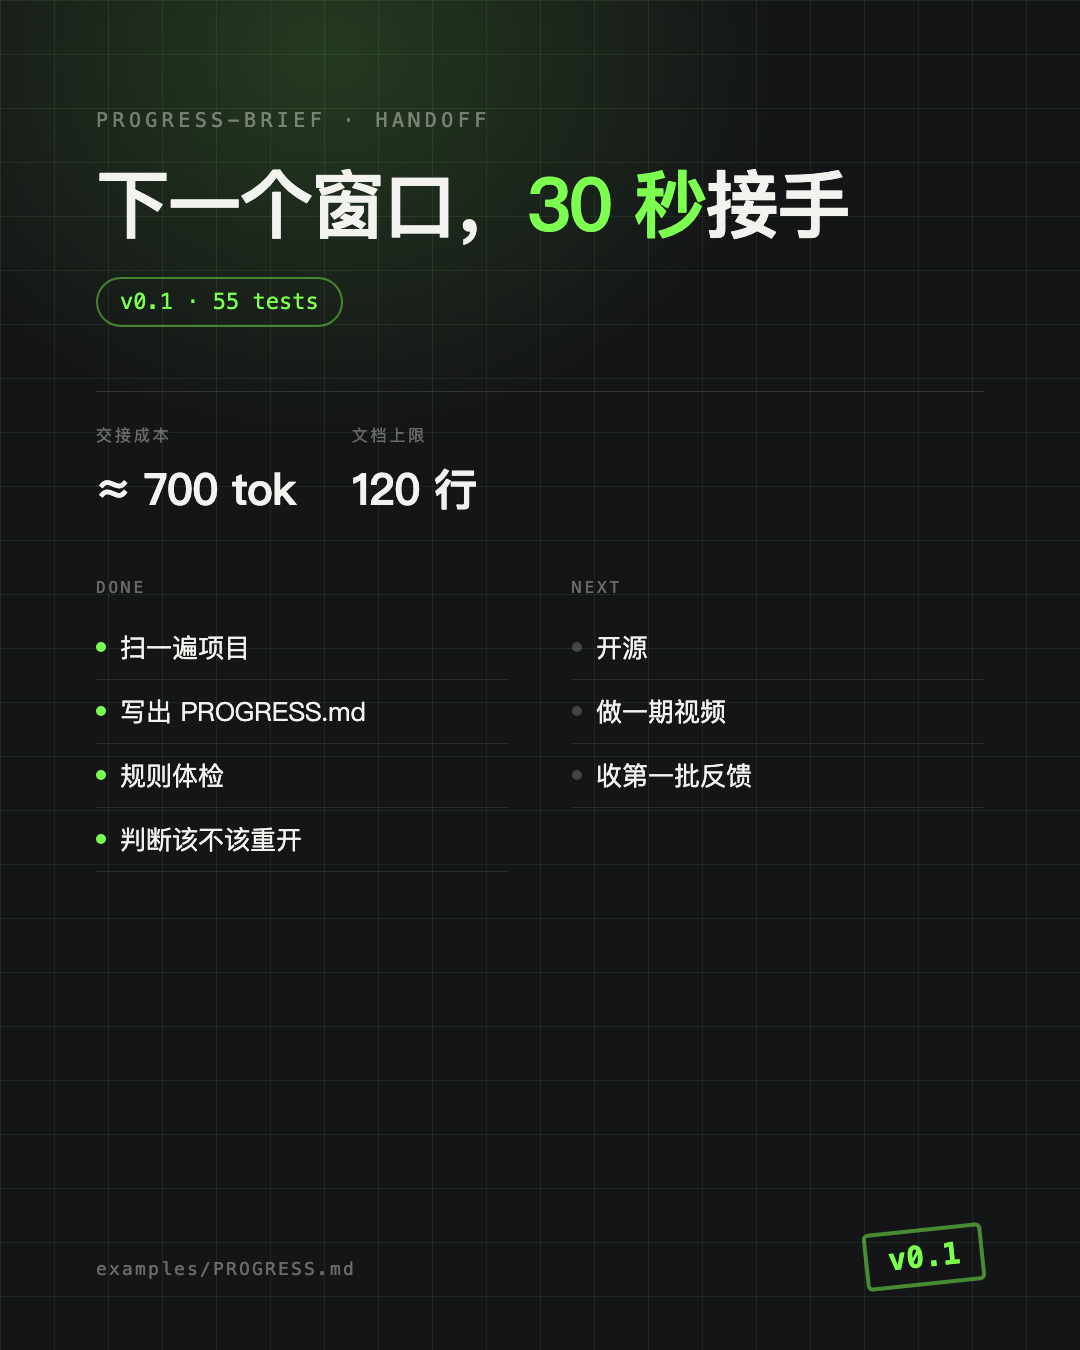
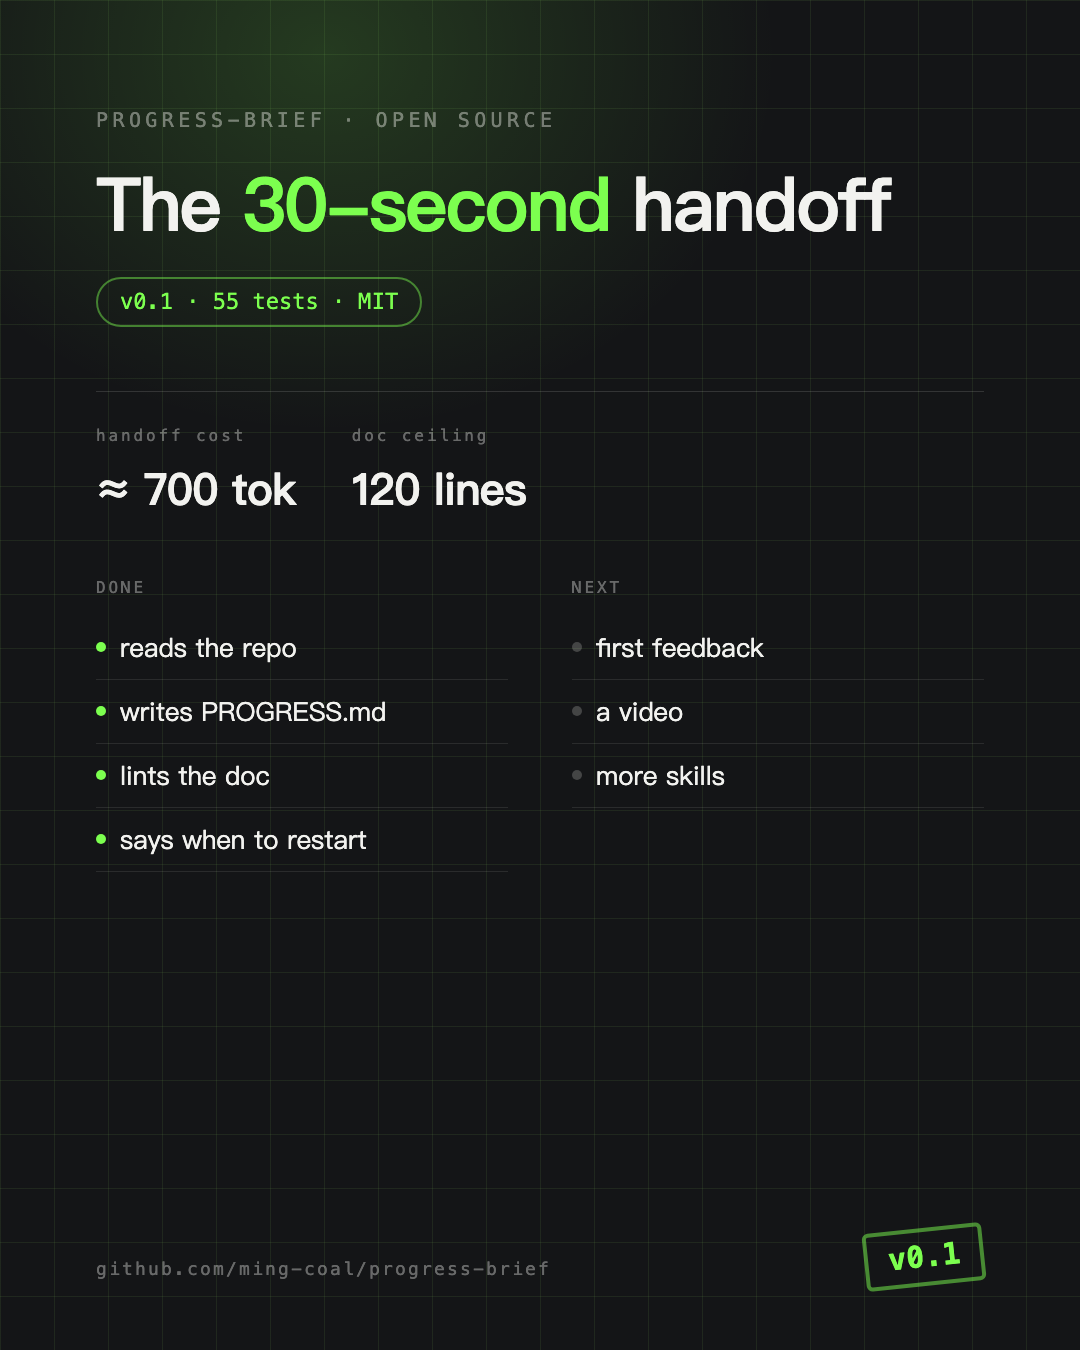
docs: English hero image for the English README, keep the Chinese one for zh-CN

diff --git a/README.zh-CN.md b/README.zh-CN.md
@@ -5,7 +5,7 @@
 
 [![test](https://github.com/ming-coal/progress-brief/actions/workflows/test.yml/badge.svg)](https://github.com/ming-coal/progress-brief/actions/workflows/test.yml)
 
-![progress-brief 状态卡](docs/hero.png)
+![progress-brief 状态卡](docs/hero.zh-CN.png)
 
 支持 **OpenCode** 和 **Claude Code**（Agent Skills 格式）。纯 Python 3.10+，零依赖，
 macOS / Linux / Windows 都一样。
